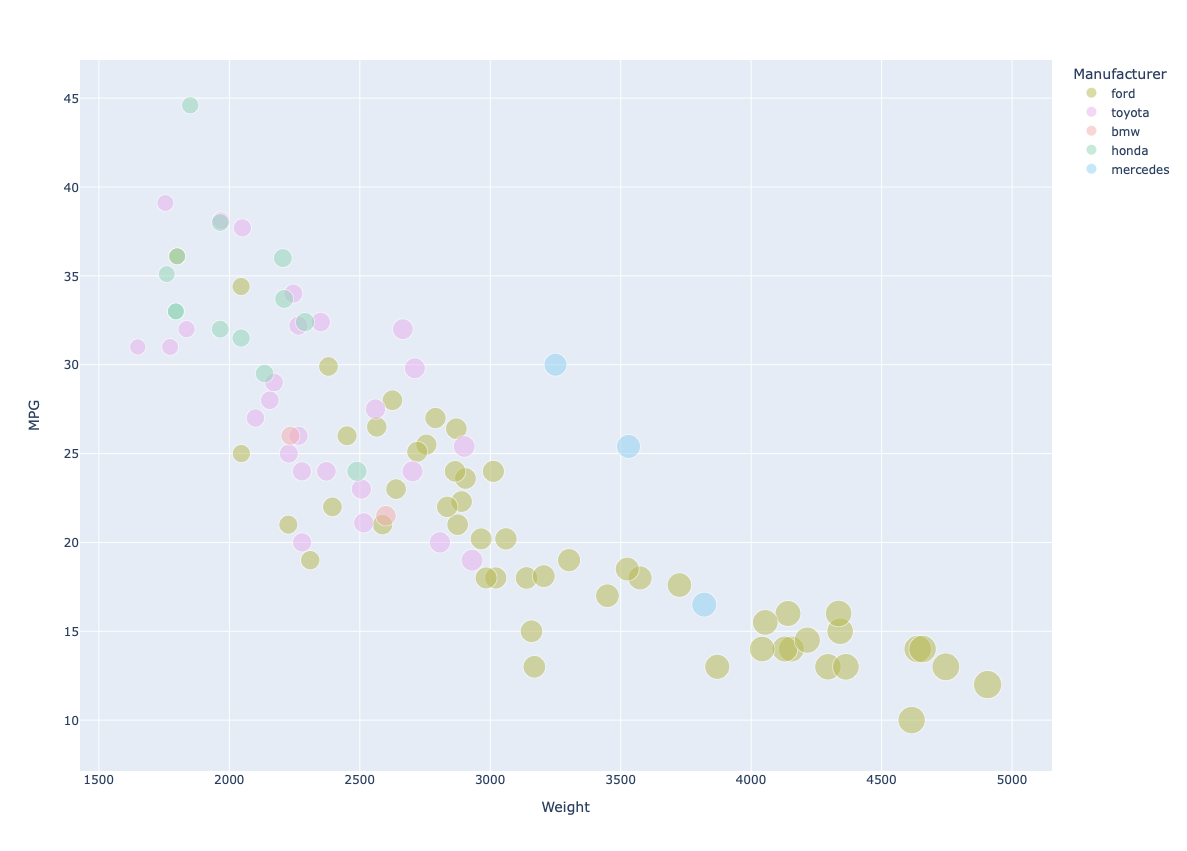
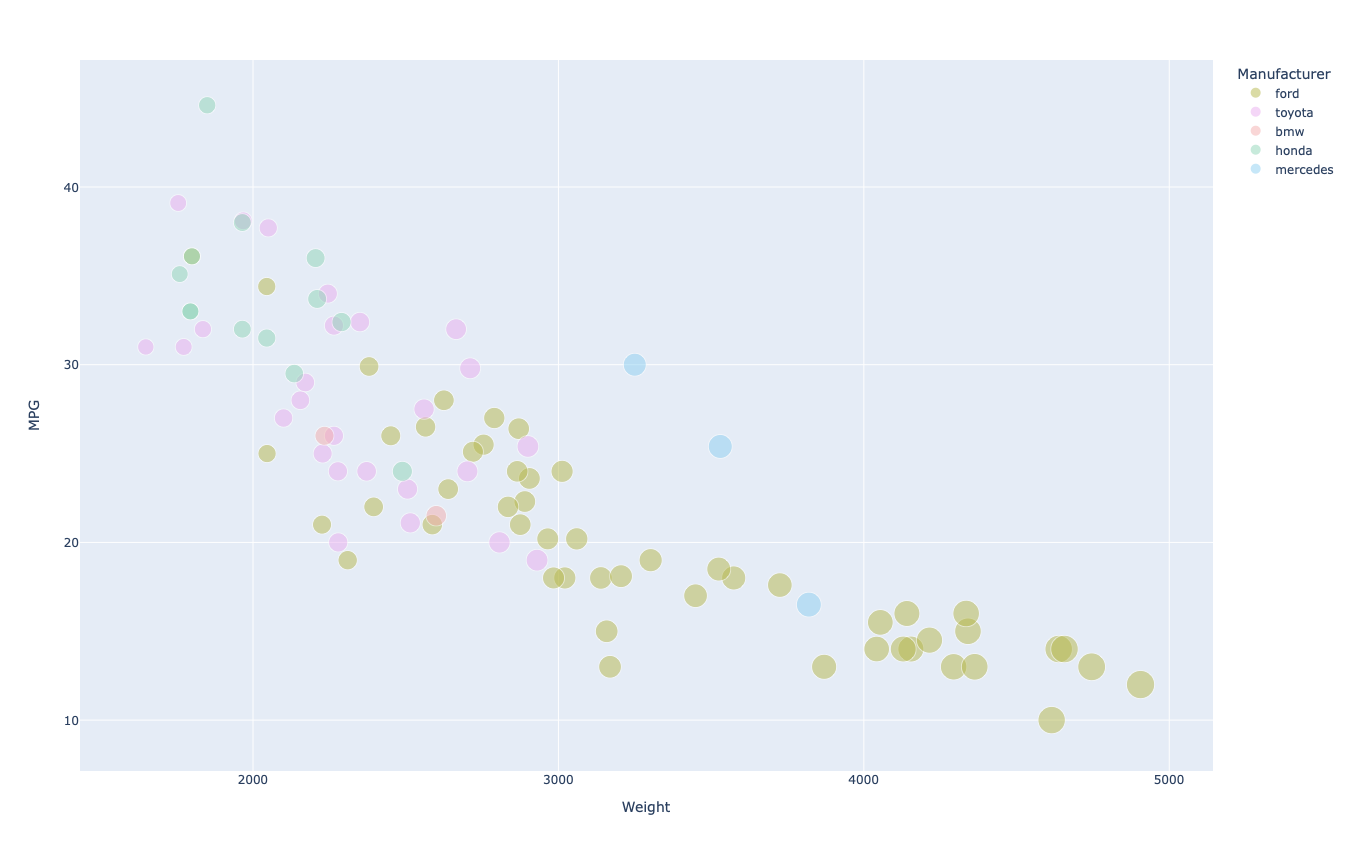
Changed ticks to start same as ref plot

diff --git a/plotly + python/main.py b/plotly + python/main.py
@@ -9,4 +9,18 @@ fig = px.scatter(df, x='Weight', y='MPG', size='Weight', color='Manufacturer', o
                     'honda': '#8ed4b6',
                     'mercedes': '#8dcef0'
                 })
+
+fig.update_layout(
+    xaxis = dict(
+        tickmode = 'linear',
+        tick0 = 2000,
+        dtick = 1000
+    ),
+    yaxis = dict(
+        tickmode = 'linear',
+        tick0 = 10,
+        dtick = 10
+    )
+)
+
 fig.show()
